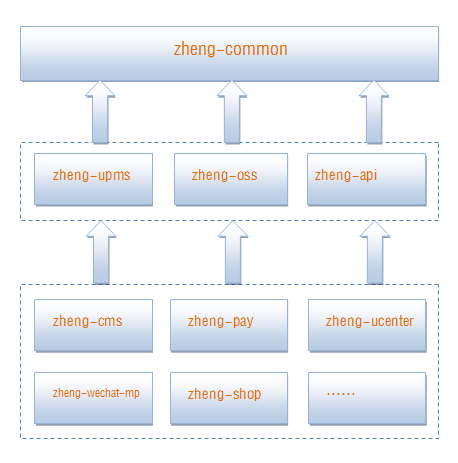
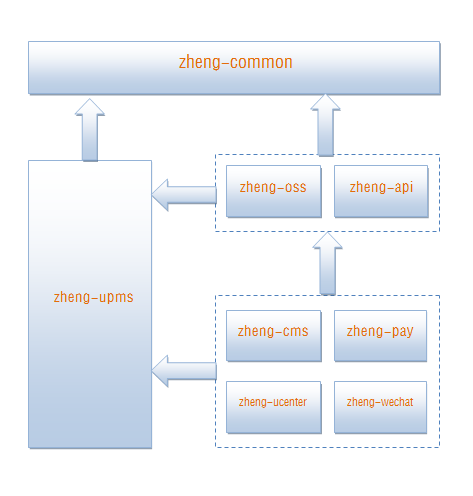
更新项目结构图

Changed region(s): [[0.0306, 0.0907, 0.9782, 0.9374], [0.3668, 0.635, 0.3974, 0.6652], [0.1834, 0.4838, 0.214, 0.514]]

diff --git a/README.md b/README.md
@@ -8,7 +8,7 @@
 ``` lua
 zheng
 ├── zheng-common -- 公共模块
-├── zheng-upms -- 用户权限管理系统
+├── zheng-upms -- （网关）用户权限管理系统
 |    ├── zheng-upms-dao -- 数据库操作，MyBatisGenerator生成
 |    ├── zheng-upms-rpc-api -- rpc接口包
 |    ├── zheng-upms-rpc-service -- rpc服务提供者[端口:1112]
